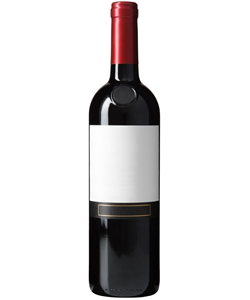
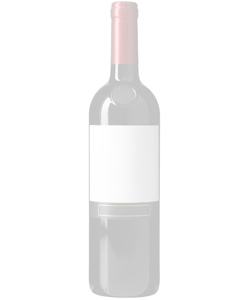
Support for empty image

Changed region(s): [[0.336, 0.0, 0.644, 1.0]]

diff --git a/angular-frontend/src/main/webapp/partials/wine-list.html b/angular-frontend/src/main/webapp/partials/wine-list.html
@@ -1,8 +1,9 @@
 <div ng:controller="WineListCtrl">
     <div class="row" ng:repeat="wine in winesMulti">
         <div class="col-md-4 portfolio-item" ng:repeat="subWine in wine.columns">
-            <a href="#">
-                <img class="img-responsive" ng-src="../cxf/images/{{ subWine.imageId  }}" alt="">
+            <a href="#/wines/{{subWine.id}}" ng-switch="subWine.imageId">
+                <img ng-switch-default class="img-responsive" ng-src="../cxf/images/{{ subWine.imageId  }}">
+                <img ng-switch-when="0" class="img-responsive" ng-src="pics/generic.jpg">
             </a>
             <h3>
                 <a href="#/wines/{{subWine.id}}">{{ subWine.name }}</a>

diff --git a/angular-frontend/src/main/webapp/partials/wine-details.html b/angular-frontend/src/main/webapp/partials/wine-details.html
@@ -38,8 +38,9 @@
 <div class="row">
 
     <!-- Wine Image -->
-    <div class="col-sm-3">
-        <img class="img-responsive" ng-src="../cxf/images/{{ wine.imageId  }}" alt="">
+    <div class="col-sm-3" ng-switch="wine.imageId">
+        <img class="img-responsive" ng-src="../cxf/images/{{ wine.imageId  }}" ng-switch-default>
+        <img class="img-responsive" ng-src="pics/generic.jpg" ng-switch-when="0">
     </div>
 
     <!-- Wine Details -->
